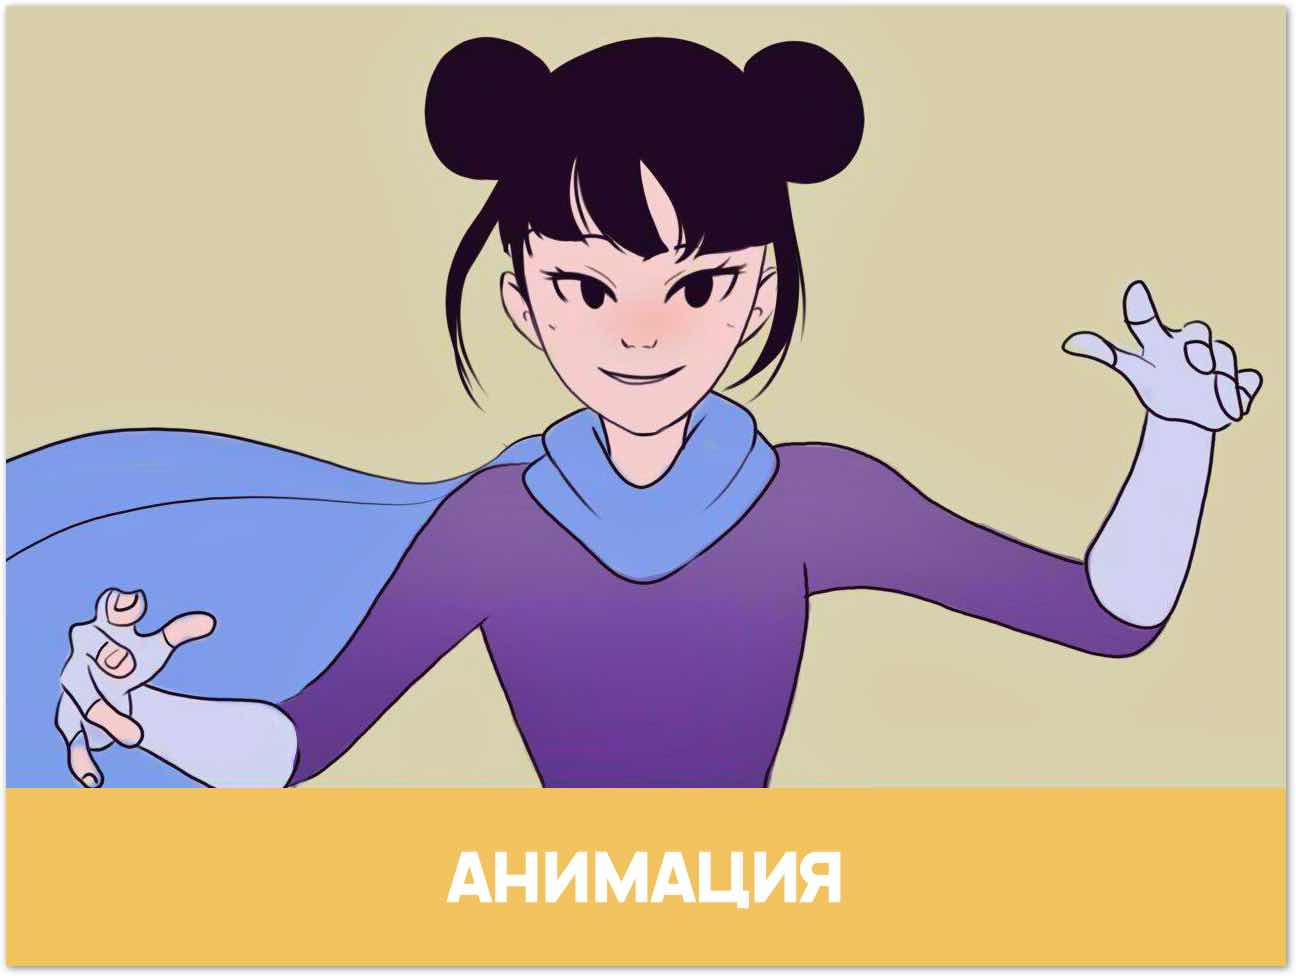
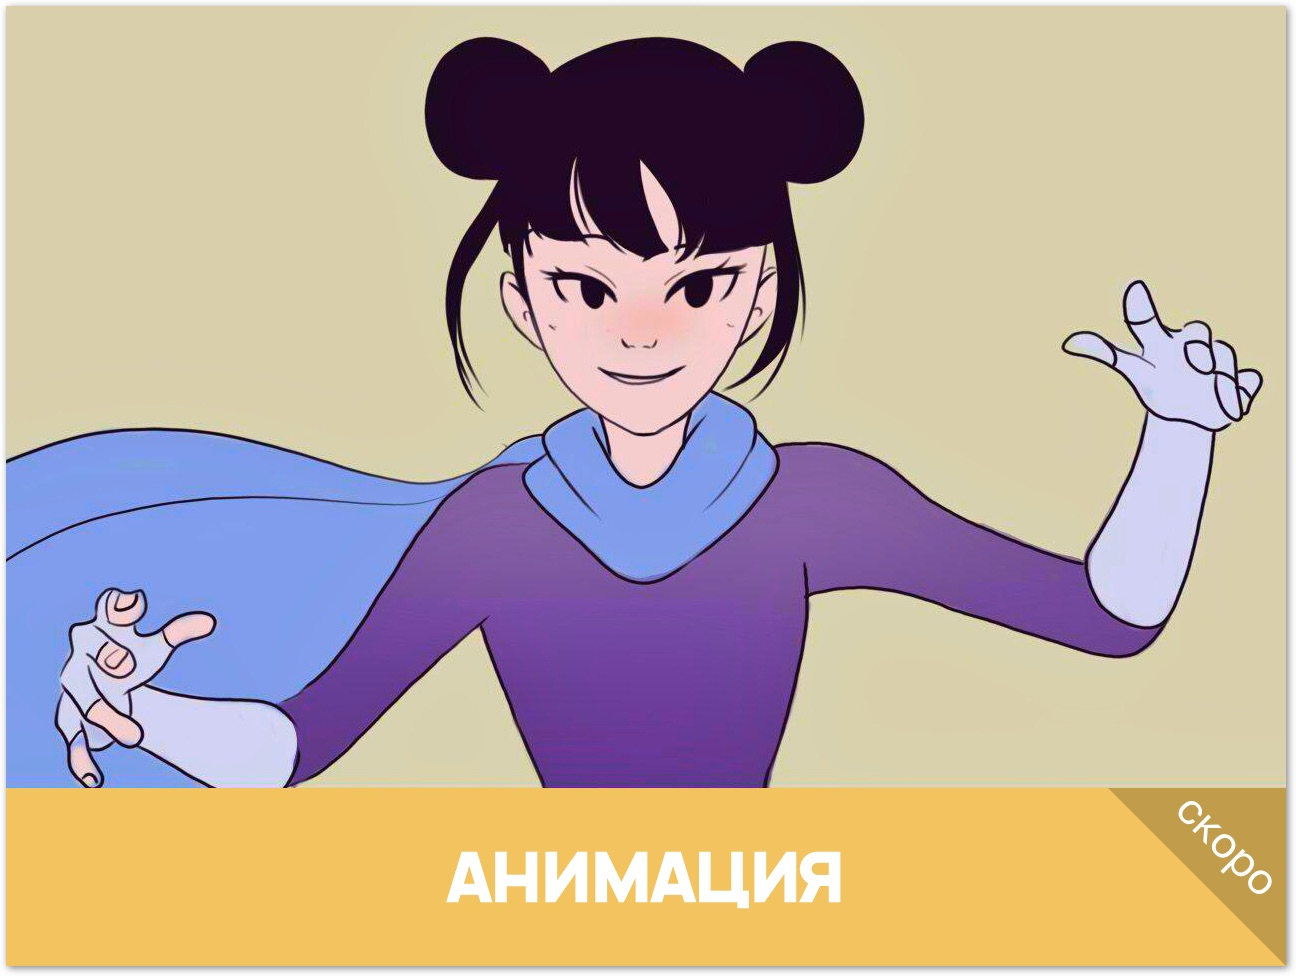
Prices, video added. Teachers removed

Changed region(s): [[0.8642, 0.7992, 1.0, 1.0], [0.0617, 0.7992, 0.0926, 0.8299], [0.0617, 0.7377, 0.0926, 0.7684]]

diff --git a/index.html b/index.html
@@ -176,7 +176,8 @@
 			</div>
 		</main>
  
-		<!-- <div class="section-title wow fadeIn data-wow-duration="1s" data-wow-delay=".5s"" id="COURSES">
+ 		<!-- Main Info -->
+		<div class="section-title wow fadeIn data-wow-duration="1s" data-wow-delay=".5s"" id="COURSES">
 	  			<img src="images/gda_logo.jpg" class="img-responsive" alt="Conxole Admin" width="48px" /> 
 
 				<h3>GameDev Academy</h3>
@@ -185,18 +186,22 @@
 			<br/>
 
             <div class="row features">
-                <div class="col-md-2 col-sm-12 col-xs-12"> </div>
-                <div class="col-md-8 col-sm-12 col-xs-12 wow fadeIn" data-wow-duration="1s" data-wow-delay=".5s">
+                <div class="col-md-3 col-sm-12 col-xs-12"> </div>
+                <div class="col-md-6 col-sm-12 col-xs-12 wow fadeIn" data-wow-duration="1s" data-wow-delay=".5s">
 					<div class="embed-responsive embed-responsive-16by9">
-						<iframe src="https://player.vimeo.com/video/205907600" class="embed-responsive-item"></iframe>
+						<!-- <iframe src="https://player.vimeo.com/video/205907600" class="embed-responsive-item"></iframe> -->
+						<iframe width="560" height="315" src="https://www.youtube.com/embed/Qjyi-Yd_zhw" frameborder="0" allow="accelerometer; autoplay; encrypted-media; gyroscope; picture-in-picture" allowfullscreen></iframe>
 					</div>
 				<br/>
 				</div>
 			</div>
-		</div> -->
-<!-- 
-		<img src="images/gda_hor_logo.jpg" width="72px" style="margin: auto; display: block;">
-		<br/> -->
+		</div>
+
+		<!-- <hr/> -->
+		<a href="" data-toggle="modal" data-target="#apply">
+			<img src="images/gda_hor_logo.jpg" width="72px" style="margin: auto; display: block;">
+		</a>
+
 		<div class="section-title wow fadeIn">
 			<h3>Наши курсы</h3>
 			<h4>Сейчас открыт набор в группы</h4>
@@ -210,63 +215,6 @@
 
 				<div class="row">
 
-					<div class="row-eq-height col-md-4 col-sm-12 col-xs-12 wow fadeInUp data-wow-duration="1s" data-wow-delay=".5s"">
-		              <div class="card mb-4 shadow-sm" style="padding: 0px 0px 8px 0px; background-color: #FBFCFC;">
-						<a href="" data-toggle="modal" data-target="#infoConceptArt">
-		                	<img class="card-img-top" src="images/concept.jpg" data-holder-rendered="true">
-		            	</a>
-		                <div class="card-body" align="center">
-
-			                <h6 style="margin-left: 16px; text-align: left;">
-			                	- Обучение в программах: Adobe Photoshop, Paint Tool Sai. <br/>
-								- Cоздание персонажа и иллюстраций, поиск стилистики, сеттинга, цветовых решений...
-								<a href="" data-toggle="modal" data-target="#infoConceptArt">
-									<strong>подробнее</strong>
-								</a>
-			                </h6>
-		                  
-		                  	<br/>
-
-		                  	<button class="btn btn-info" data-toggle="modal" data-whatever="Концепт-арт" data-target="#apply" style="margin: 4px;">
-		                  		Подать заявку
-		                  	</button>
-
-                            <!-- <input class="wow bounceIn btn btn-info" data-toggle="modal" data-whatever="Концепт-арт" data-target="#apply" style="margin: 4px;" value="Подать заявку"> -->
-
-		                  	<!-- <button class="btn btn-info" data-toggle="modal" data-target="#infoConceptArt" style="margin: 4px;" >
-		                  		Инфо
-		                  	</button> -->
-		                	<!-- <small class="text-muted">8 недель</small> -->
-
-		                </div>
-		              </div>
-		            </div>
-					<div class="row-eq-height col-md-4 col-sm-12 col-xs-12 wow fadeInUp data-wow-duration="1s" data-wow-delay=".5s"">
-		              <div class="card mb-4 shadow-sm" style="padding: 0px 0px 8px 0px; background-color: #FBFCFC;">
-						<a href="" data-toggle="modal" data-target="#infoAnimation">
-		                	<img class="card-img-top" src="images/animation.jpg" data-holder-rendered="true">
-		                </a>
-		                <div class="card-body" align="center">
-
-			                <h6 style="margin-left: 16px; text-align: left;">
-			                	- Обучение в программах: Adobe Photoshop, Adobe Animate. <br/>
-			                	- Раскадровка, аниматика, композиция кадров,
-			                	правило трех, расстановка камеры...
-								<a href="" data-toggle="modal" data-target="#infoAnimation">
-									<strong>подробнее</strong>
-								</a>
-			                </h6>
-		                  
-		                  	<br/>
-
-		                  	<button class="btn btn-warning" data-toggle="modal" data-whatever="Анимация" data-target="#apply" style="margin: 4px;">
-		                  		Подать заявку
-		                  	</button>
-		                  	<!-- <input class="wow bounceIn btn btn-warning" data-toggle="modal" data-whatever="Анимация" data-target="#apply" style="margin: 4px;" value="Подать заявку"> -->
-
-		                </div>
-		              </div>
-		            </div>
 					<div class="row-eq-height col-md-4 col-sm-12 col-xs-12 wow fadeInUp data-wow-duration="1s" data-wow-delay=".5s"">
 		              <div class="card mb-4 shadow-sm" style="padding: 0px 0px 8px 0px; background-color: #FBFCFC;">
 						<a href="" data-toggle="modal" data-target="#infoScripting">
@@ -291,6 +239,62 @@
                             <!-- <input class="wow bounceIn btn btn-error" data-toggle="modal" data-whatever="Программирования" data-target="#apply" style="margin: 4px;" value="Подать заявку"> -->
 
 		                	<!-- <small class="text-muted">8 недель</small> -->
+		                </div>
+		              </div>
+		            </div>
+					<div class="row-eq-height col-md-4 col-sm-12 col-xs-12 wow fadeInUp data-wow-duration="1s" data-wow-delay=".5s"">
+		              <div class="card mb-4 shadow-sm" style="padding: 0px 0px 8px 0px; background-color: #FBFCFC;">
+						<a href="" data-toggle="modal" data-target="#infoAnimation">
+		                	<img class="card-img-top" src="images/animation.jpg" data-holder-rendered="true">
+		                </a>
+		                <div class="card-body" align="center">
+
+			                <h6 style="margin-left: 16px; text-align: left;">
+			                	- Обучение в программах: Adobe Photoshop, Animate. <br/>
+			                	- Раскадровка, аниматика, композиция кадров,
+			                	правило трех, расстановка камеры...
+								<a href="" data-toggle="modal" data-target="#infoAnimation">
+									<strong>подробнее</strong>
+								</a>
+			                </h6>
+		                  
+		                  	<br/>
+
+		                  	<button class="btn btn-warning" data-toggle="modal" data-whatever="Анимация" data-target="#apply" style="margin: 4px;">
+		                  		Подать заявку
+		                  	</button>
+		                  	<!-- <input class="wow bounceIn btn btn-warning" data-toggle="modal" data-whatever="Анимация" data-target="#apply" style="margin: 4px;" value="Подать заявку"> -->
+
+		                </div>
+		              </div>
+		            </div>
+					<div class="row-eq-height col-md-4 col-sm-12 col-xs-12 wow fadeInUp data-wow-duration="1s" data-wow-delay=".5s"">
+		              <div class="card mb-4 shadow-sm" style="padding: 0px 0px 8px 0px; background-color: #FBFCFC;">
+						<a href="" data-toggle="modal" data-target="#infoConceptArt">
+		                	<img class="card-img-top" src="images/concept.jpg" data-holder-rendered="true">
+		            	</a>
+		                <div class="card-body" align="center">
+
+			                <h6 style="margin-left: 16px; text-align: left;">
+			                	- Обучение в программах: Adobe Photoshop, Paint Tool Sai. <br/>
+								- Cоздание персонажа и иллюстраций, поиск стилистики, сеттинга, цветовых решений...
+								<a href="" data-toggle="modal" data-target="#infoConceptArt">
+									<strong>подробнее</strong>
+								</a>
+			                </h6>
+		                  
+		                  	<br/>
+
+		                  	<button class="btn btn-info" data-toggle="modal" data-whatever="Концепт-арт" data-target="#apply" style="margin: 4px;">
+		                  		Подать заявку
+		                  	</button>
+                            <!-- <input class="wow bounceIn btn btn-info" data-toggle="modal" data-whatever="Концепт-арт" data-target="#apply" style="margin: 4px;" value="Подать заявку"> -->
+
+		                  	<!-- <button class="btn btn-info" data-toggle="modal" data-target="#infoConceptArt" style="margin: 4px;" >
+		                  		Инфо
+		                  	</button> -->
+		                	<!-- <small class="text-muted">8 недель</small> -->
+
 		                </div>
 		              </div>
 		            </div>
@@ -596,6 +600,7 @@
 		</a>
 		<br/>
 		<!-- Our team	   -->
+		<!--
 		<div class="container">
 
 			<div class="section-title wow fadeInUp">
@@ -690,16 +695,15 @@
 	            </div>
 			</section>
 		</div>
-
-		<br/><br/>
+		-->
 		<!-- <hr/> -->
 		<!-- <img src="images/gda_hor_logo.jpg" width="72px" style="margin: auto; display: block;"> -->
 		<!-- Prising list	   -->
-		<!-- <div class="container">
+		<div class="container">
  
 			<div class="section-title wow fadeInUp">
 				<h3>Цены</h3>
-				<h4>У нас самые оптимальные цены!</h4>
+				<h4>"Самые лучшие инвестиции — в знания" <br/> <small>Бенджамин Франклин</small></h4>
 			</div>
 			<section class="row">
 			
@@ -707,26 +711,31 @@
 		                <div class="db-wrapper">
 		                    <div class="db-pricing-eleven db-bk-color">
 		                        <div class="price-one">
-		                            <sup>&#8376</sup> 72000 <br/><br/>
-	                                <h6 style="color: #fff;">Стоимость полного курса</h6>
+		                            	Бесплатно <br/><br/>
+	                                <h6 style="color: #fff;">Стоимость урока</h6>
 		                        </div>
 		                        <div class="type-sale-one">
-	                            	Концепт-арт
+	                            	Пробный урок
 		                        </div>
 		                        <div class="price-content" style="margin-top: 32px;">
 	                            	<h5 style="font-weight: 600; font-size: 14; margin: 0px;">
-	                            		Длительность курса
+	                            		Длительность урока
 	                            	</h5>
-	                            	2 месяца 
-	                            	 
+	                            	1 час
 	                            	<h5 style="font-weight: 600; font-size: 14; margin: 0px; margin-top: 16px;">
-	                            		Время
+	                            		Утром
 	                            	</h5>
-	                            	с 16.00 до 18.00
+	                            	с 9.00 до 10.00
 	                            	<h5 style="font-weight: 600; font-size: 14; margin: 0px; margin-top: 16px;">
-	                            		Дни недели
+	                            		Вечером
 	                            	</h5>
-	                            	Вт, Чт, Сб 
+	                            	с 19.30 до 20.30
+
+	                            	<br/>
+
+		                  	<button class="btn btn-info" data-toggle="modal" data-whatever="Концепт-арт" data-target="#apply" style="margin: 4px; margin-top: 16px;">
+		                  		Подать заявку
+		                  	</button>
 		                        </div>
 		                        
 		                    </div>
@@ -736,26 +745,30 @@
 		                <div class="db-wrapper">
 			                <div class="db-pricing-eleven db-bk-color">
 			                    <div class="price-two">
-		                            <sup>&#8376</sup> 72000 <br/><br/>
+		                            <sup>&#8376</sup> 120000 <br/><br/>
 	                                <h6 style="color: #fff;">Стоимость полного курса</h6>
 			                    </div>
 			                    <div class="type-sale-two">
-			                        Анимация
+			                        Fast
 			                    </div>
 		                        <div class="price-content" style="margin-top: 32px;">
 	                            	<h5 style="font-weight: 600; font-size: 14; margin: 0px;">
 	                            		Длительность курса
 	                            	</h5>
-	                            	2 месяца 
+	                            	12 недель
 	                            	 
 	                            	<h5 style="font-weight: 600; font-size: 14; margin: 0px; margin-top: 16px;">
-	                            		Время
+	                            		Количество часов
 	                            	</h5>
-	                            	с 16.00 до 18.00
+	                            	24 часа
 	                            	<h5 style="font-weight: 600; font-size: 14; margin: 0px; margin-top: 16px;">
-	                            		Дни недели
+	                            		Программа
 	                            	</h5>
-	                            	Пн, Ср, Пт
+	                            	Теория, домашние задания, проверка
+
+					      	<button onclick="closeModal()" class="btn btn-warning" data-toggle="modal" data-target="#apply" data-whatever="Fast" style="margin: 4px; margin-top: 16px;">
+					      		Подать заявку
+					      	</button>
 		                        </div>
 		                        
 			                </div>
@@ -765,26 +778,30 @@
 		                <div class="db-wrapper">
 			                <div class="db-pricing-eleven db-bk-color">
 			                    <div class="price-three">
-		                            <sup>&#8376</sup> 72000 <br/><br/>
+		                            <sup>&#8376</sup> 180000 <br/><br/>
 	                                <h6 style="color: #fff;">Стоимость полного курса</h6>
 			                    </div>
 			                    <div class="type-sale-three">
-			                       	Программирование
+			                       	Detail
 			                    </div>
 		                        <div class="price-content" style="margin-top: 32px;">
 	                            	<h5 style="font-weight: 600; font-size: 14; margin: 0px;">
 	                            		Длительность курса
 	                            	</h5>
-	                            	2 месяца 
+	                            	12 недель
 	                            	 
 	                            	<h5 style="font-weight: 600; font-size: 14; margin: 0px; margin-top: 16px;">
-	                            		Время
+	                            		Количество часов
 	                            	</h5>
-	                            	с 16.00 до 18.00
+	                            	48 часов
 	                            	<h5 style="font-weight: 600; font-size: 14; margin: 0px; margin-top: 16px;">
-	                            		Дни недели
+	                            		Программа
 	                            	</h5>
-	                            	Пн, Ср, Пт 
+	                            	FAST + практика, работа над ошибками
+
+					      	<button onclick="closeModal()" class="btn btn-error" data-toggle="modal" data-target="#apply" data-whatever="Detail" style="margin: 4px; margin-top: 16px;">
+					      		Подать заявку
+					      	</button>
 		                        </div>
 		                        
 			                </div>
@@ -794,15 +811,12 @@
 		            </div>
 		            <div class="col-xs-12 col-sm-12 col-md-6 col-lg-4 wow fadeInUp data-wow-duration="1s" data-wow-delay=".5s"">
 		            <br/>
-		            	<button class="btn btn-success btn-lg btn-block" data-toggle="modal" data-whatever="Готов!" data-target="#apply" style="margin: 4px;">
-		                  		Подать заявку
-	                  	</button>
 		            <br/>
 		            </div>
 
 			</section>
  
-		</div> -->
+		</div>
 
 		<!-- <br/> -->
 		<!-- <hr/> -->
@@ -908,7 +922,7 @@
 			            <legend>Наши контакты:</legend>
 			            <address>
 	                        <strong>Fade-in Games</strong><br>
-	                        Розыбакиева 227, 050060<br>
+	                        Шумный Переулок 2, 4 этаж, 050060<br>
 	                        Алматы, Казахстан<br>
 	                        <a href="tel:+7-747-207-7017">Тел: +7 747 207 7017</a>
 			            </address>
@@ -926,7 +940,7 @@
 	                    	<!-- <a href="https://t.me/F4d3in" style="margin-right: 12px;">
 	                    		<img src="images/telegram.png" width="25px">
 	                    	</a> -->
-	                    	<a href="https://facebook.com/f4d3.in/">
+	                    	<a href="https://www.facebook.com/GameDevAcademy-106012707634114/">
 	                    		<img src="images/facebook.png" width="25px">
 	                    	</a>
 			            </form>
@@ -938,7 +952,7 @@
 		<div class="container">
 			<section class="row breath">
 				<div class="col-md-12 footerlinks">
-					<p>&copy; 2019 Fade-in Games. All Rights Reserved</p>
+					<p>&copy; 2020 Fade-in Games. All Rights Reserved</p>
 				</div>
 			</section><! --/section -->
 		</div><! --/container -->
